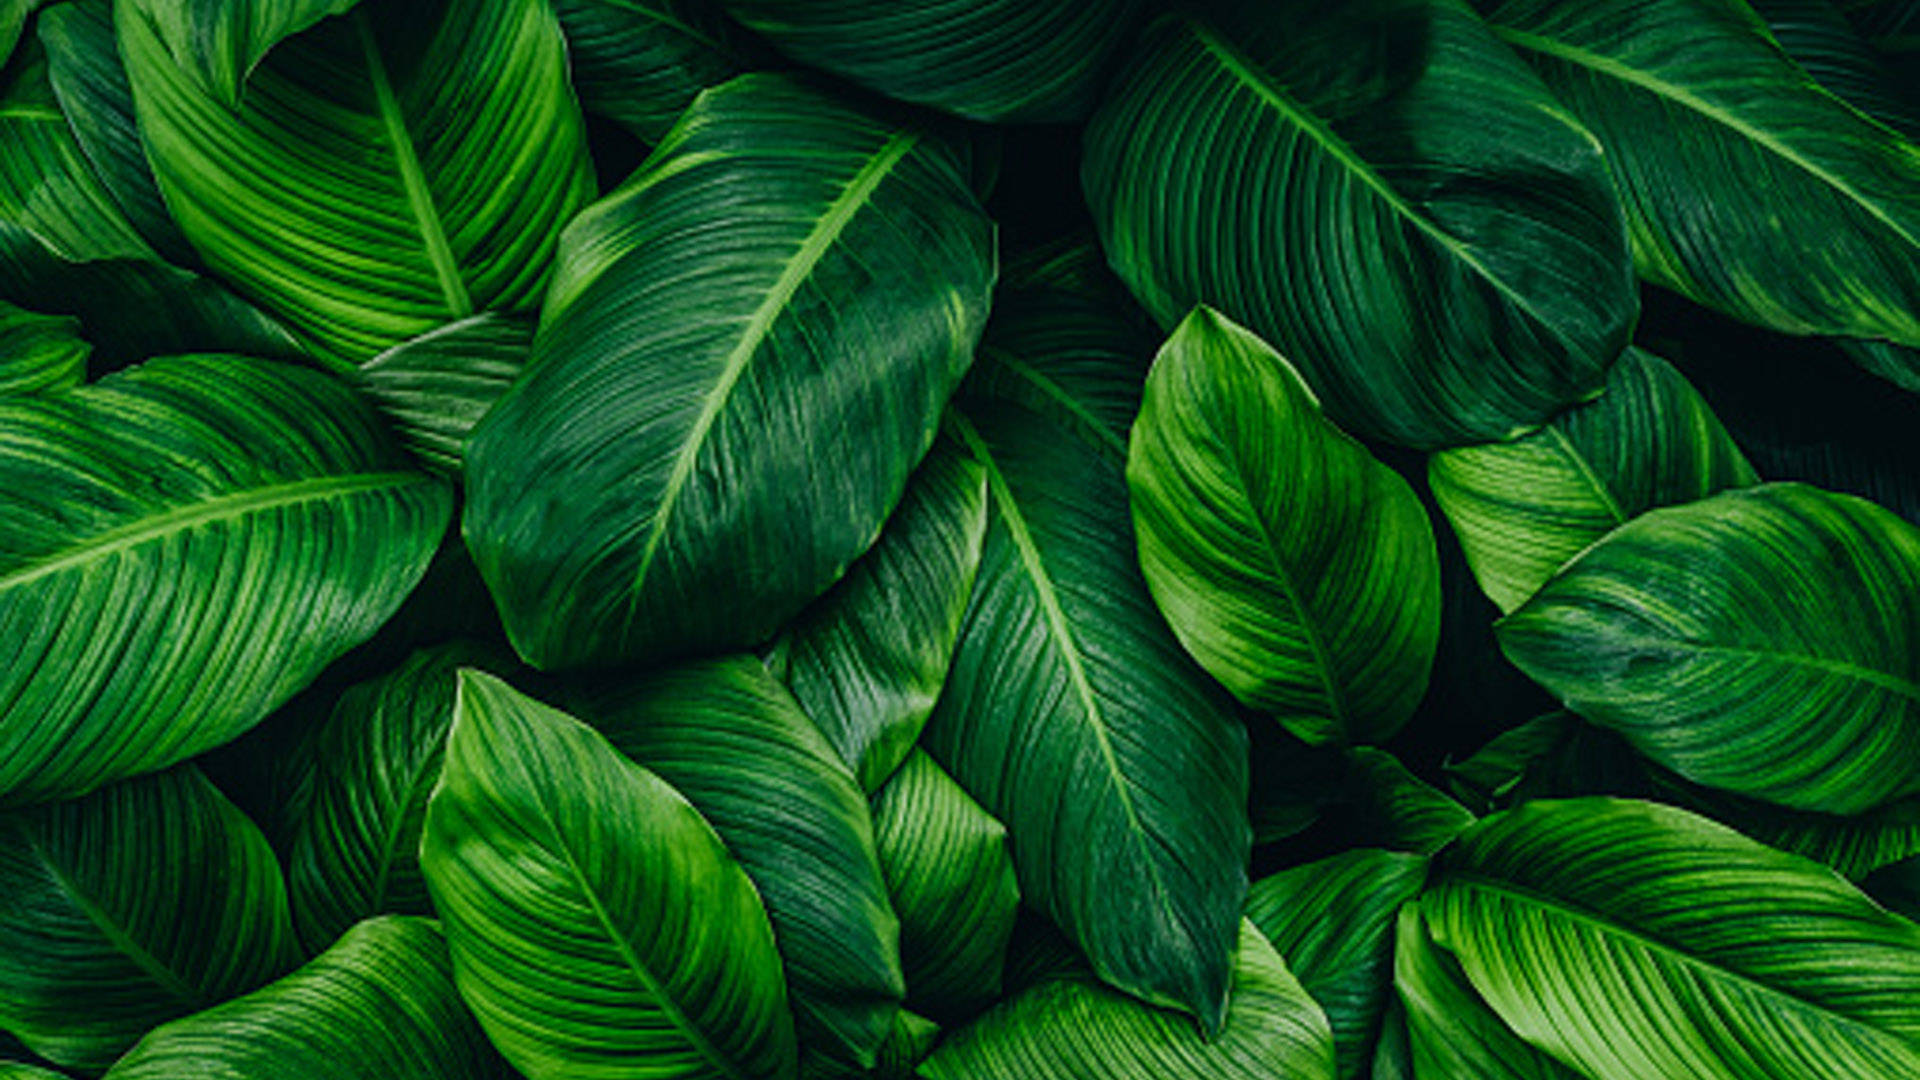
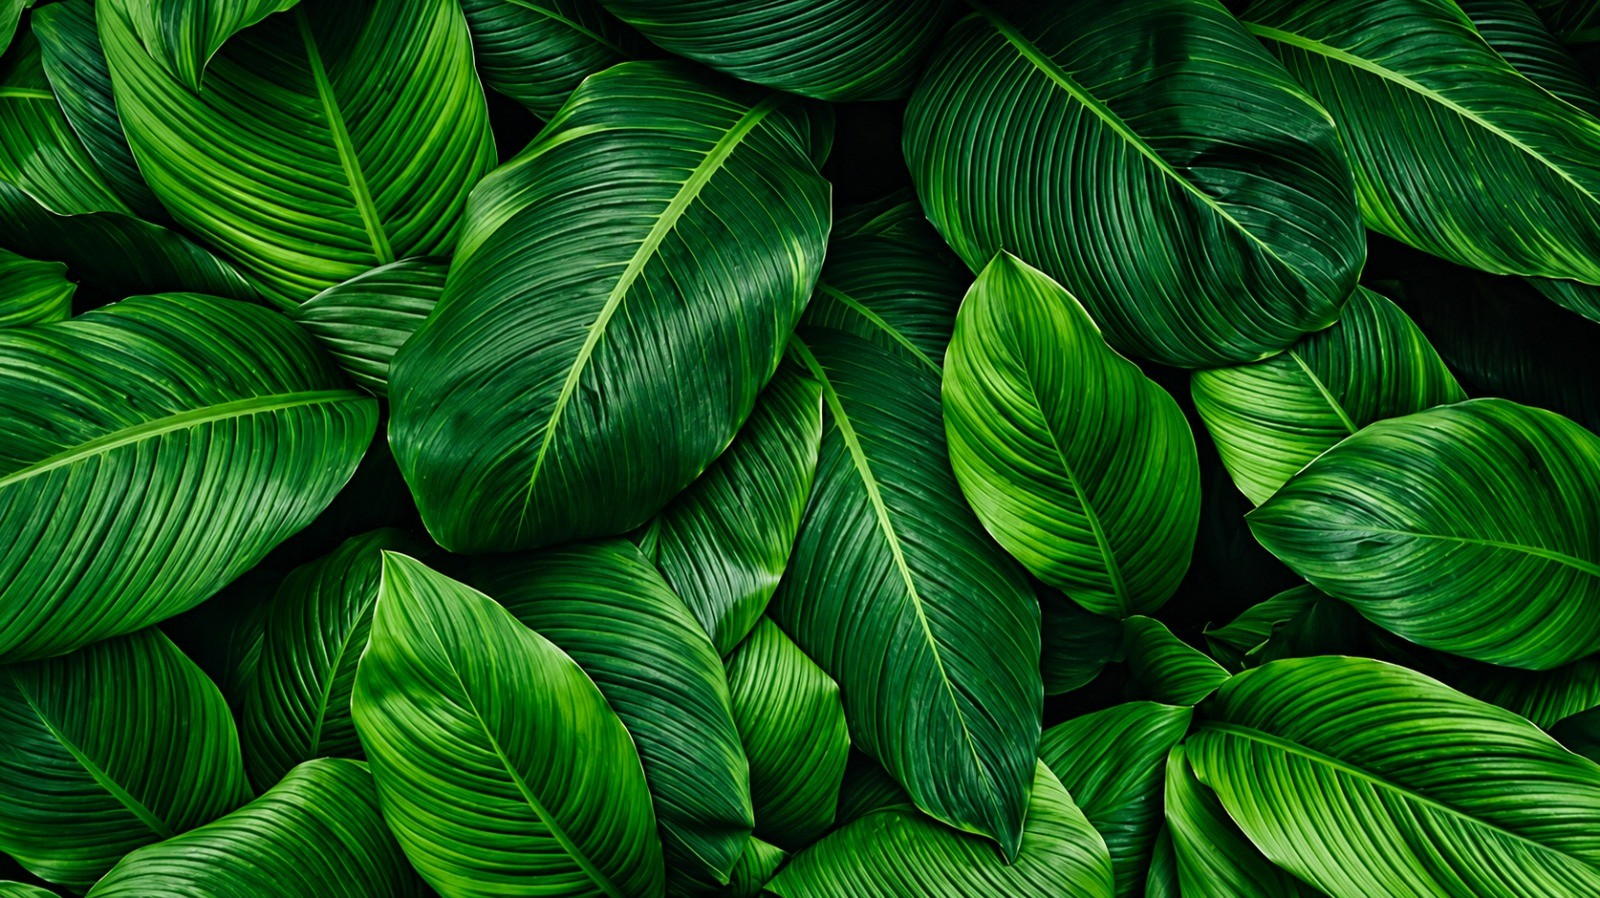
Web: fondo de hojas borroso detrás del contenido

diff --git a/assets/css/app.css b/assets/css/app.css
@@ -73,6 +73,19 @@ body {
     min-height: 100vh;
 }
 
+/* Fondo de hojas, borroso y aclarado con el color de fondo para que el contenido se lea bien */
+body::before {
+    content: "";
+    position: fixed;
+    inset: -40px;
+    z-index: -1;
+    background:
+        linear-gradient(color-mix(in srgb, var(--fondo) 55%, transparent), color-mix(in srgb, var(--fondo) 55%, transparent)),
+        url("../img/background.jpg") center / cover no-repeat;
+    filter: blur(8px);
+    pointer-events: none;
+}
+
 a { color: var(--primario); }
 
 h1, h2, h3 { margin: 0; line-height: 1.25; }
@@ -413,4 +426,5 @@ table.tabla { width: 100%; border-collapse: collapse; min-width: 640px; }
 @media print {
     .barra, .no-imprimir, .eco-chatbot-fab { display: none !important; }
     body { background: #fff; }
+    body::before { display: none; }
 }
